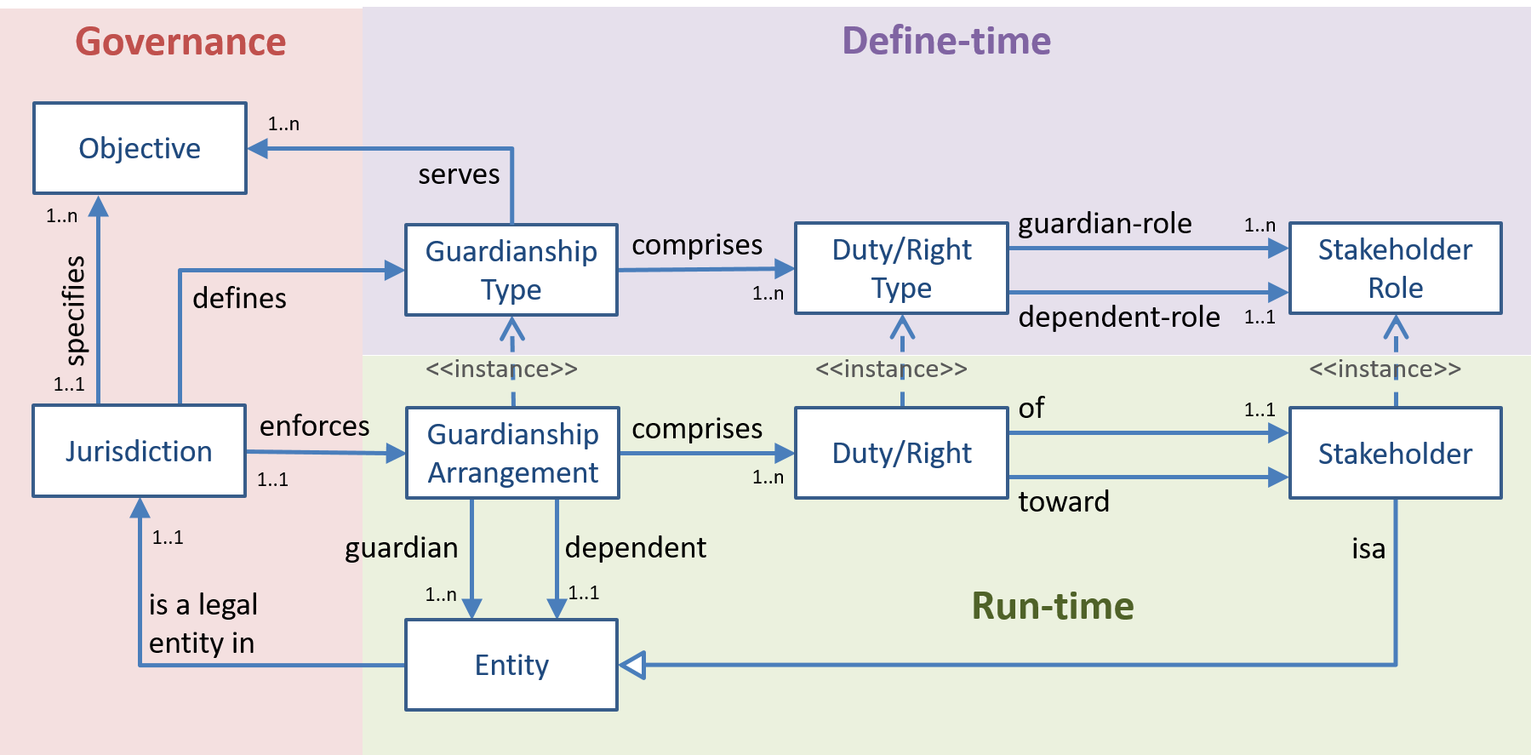
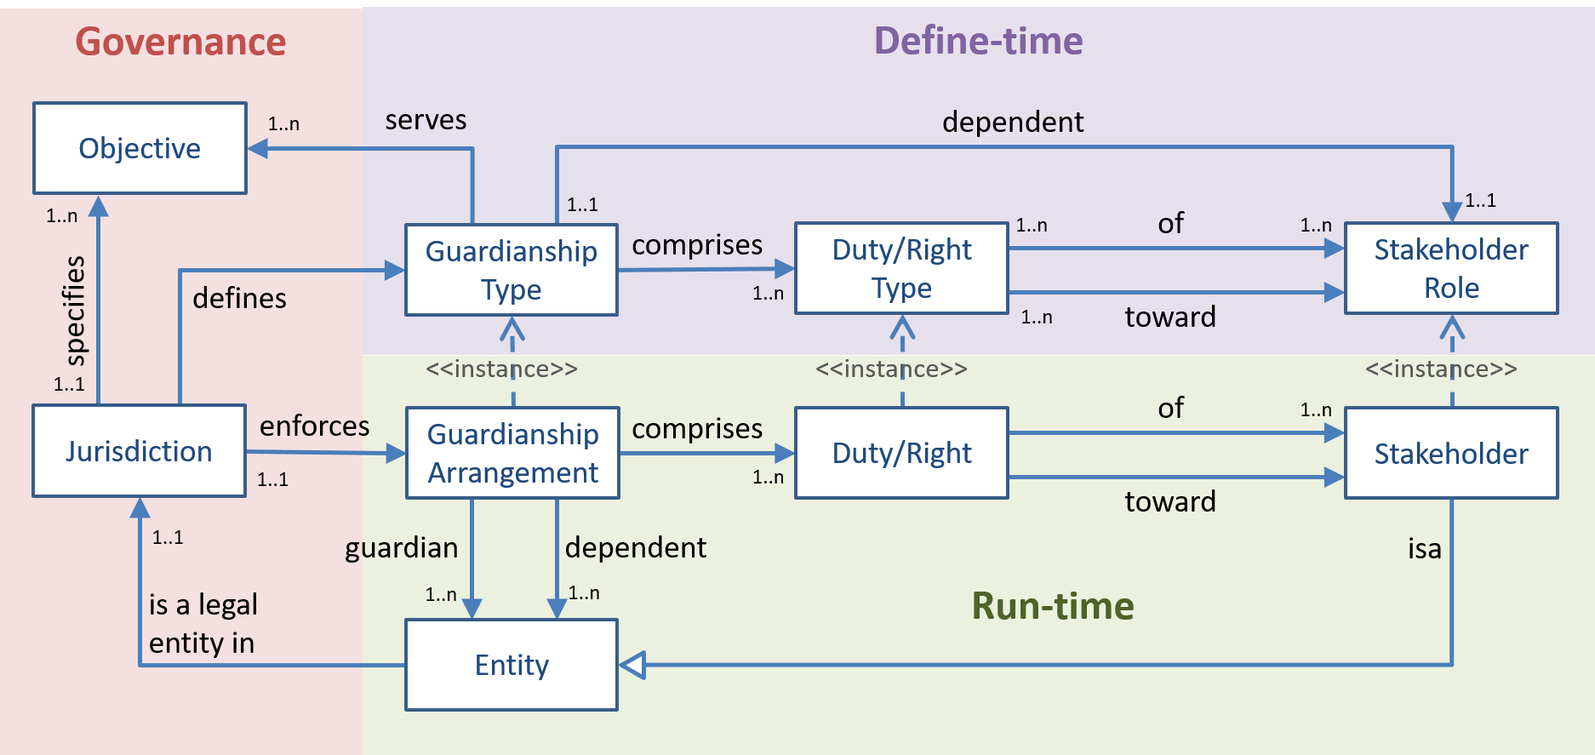
updates

diff --git a/docs/terms/qualified-data.md b/docs/terms/qualified-data.md
@@ -5,21 +5,25 @@ scopeid: essifLab
 type: concept
 typeid: qualified-data
 stage: draft
-hoverText: "Qualified Data: data that comes with assurances, at least regarding its provenance and integrity, and that can be combined electronically in semantically valid ways."
-glossaryText: "%%data^data%% that comes with assurances, at least regarding its provenance and integrity, and that can be combined electronically in semantically valid ways."
+hoverText: "Qualified Data: data that comes with assurances, at least regarding its provenance and integrity (immutability), that make this data valid to be used for specific purposes of individual Parties."
+glossaryText: "%%data^data%% that comes with assurances, at least regarding its provenance and integrity (immutability), that make this data valid to be used for specific purposes of individual %%parties^party%%."
 ---
 
 ### Short Description
-**Qualified data** is %%data|data%% that comes with assurances, at least regarding its provenance and integrity, and that can be combined electronically in semantically valid ways.
+**Qualified data** is %%data|data%% that comes with assurances, at least regarding its provenance and integrity (immutability), that make this data valid to be used for specific purposes of individual %%parties^party%%.
+
+Qualified data has two perspectives:
+1. The usage (or %%validation|validation%%) perspective. Whether or not data qualifies for use depends on the %%party|party%% using it, and also the purpose (context) for which it is used. From this perspective, qualfied data *is* data that if it were validated, would qualify as actually being %%valid|validated-data%%.
+2. The provisioning perspective. Strictly speaking, %%parties|party%% cannot provision qualified data as they have no clue what it takes for that data to be %%valid|validated-data%%. A party that creates qualified data would not not all specific purposes for which the data is actually going to be used.
 
 For verifiers
 
 Qualified data comes in two flavors:
-- as data that satisfies the requirements of the %%party|party%% that will be using it, e.g. for decision making. Since parties are autonomous (self-sovereign), such requirements must be expected to be subjective: every party will have its 
+- as data that satisfies the requirements of the %%party|party%% that will be using it, e.g. for decision making. Since parties are autonomous (self-sovereign), such requirements must be expected to be subjective: every party will have its
 
 ### Purpose
 The ability to distinguish between (non)qualified-datas is relevant in many situations, including:
-- electronic communication: the qualified-data 
+- electronic communication: the qualified-data
 
 ### Criterion
 The **qualified-data** (of an %%actor|actor%%) is the %%party|party%% for whom the actor is an %%agent|agent%%, i.e. on whose behalf the actor is (in the process of) executing some %%action|action%%.
@@ -40,16 +44,16 @@ From the issuer perspective, it isn't all that important what the 'envelope' is 
 In short, as an issuer, a party is interested in creating value from sharing knowledge about other entities. A party's “issuer” governance process is concerned with making (and continually reviewing and updating) decisions about e.g.:
 - the kinds of qualified data it is willing to provide (what they consist of, what characteristics are to be ensured, liability to take, etc.;
 - the kinds of credentials ('envelopes') it is willing to use for providing that data;
-- under which conditions such credentials may be issued (e.g. only to a party that is mentioned in the qualified data); 
+- under which conditions such credentials may be issued (e.g. only to a party that is mentioned in the qualified data);
 - how all this is communicated: published, advertised and marketed (both in machine-readable and human readable form, for different purposes/audiences).
 
 #### Validator perspective
 
-In its role as a %%validator|validator%%, a %%party|party%% is seeking to create value by efficiently obtaining data that is valid for further processing for specific purposes. Such processing includes doing computations with the data, or using it as a value for a variable/placeholder in a rule that needs to be evaluated for the purpose of making some decision. One may think of this as that the party has various 'formulae' that it needs to be processed or evaluated for specific purposes, and doing so requires the 'variables' (fields) of these formulae to be assigned a value. 
+In its role as a %%validator|validator%%, a %%party|party%% is seeking to create value by efficiently obtaining data that is valid for further processing for specific purposes. Such processing includes doing computations with the data, or using it as a value for a variable/placeholder in a rule that needs to be evaluated for the purpose of making some decision. One may think of this as that the party has various 'formulae' that it needs to be processed or evaluated for specific purposes, and doing so requires the 'variables' (fields) of these formulae to be assigned a value.
 
 The validator perspective is about obtaining such data, determining whether or not evaluation of the formula would be valid if the data were assigned to specific variables (%%validation|validation%%), and if so, assign the obtained data to such variables.
 
-Obtaining data through the SSI infrastructure requires that the party first needs to track down which issuers exist and what kinds of credentials they issue, i.e. the kinds of data that they contain, and further characteristics. It is needed to create and maintain a mapping between (fields) from credentials from specific issuers and 'variables' in the formulae that it uses in its business processes. Such a mapping would also include 'validation criteria', i.e. formulae whose variables can be populated by the meta-data of credentials, such the expiration date, and that are used to decide whether or not data from a credential can serve as the value of a variable in the formula. We will refer to such mappings (and their validation criteria) as a 'validation policy'. 
+Obtaining data through the SSI infrastructure requires that the party first needs to track down which issuers exist and what kinds of credentials they issue, i.e. the kinds of data that they contain, and further characteristics. It is needed to create and maintain a mapping between (fields) from credentials from specific issuers and 'variables' in the formulae that it uses in its business processes. Such a mapping would also include 'validation criteria', i.e. formulae whose variables can be populated by the meta-data of credentials, such the expiration date, and that are used to decide whether or not data from a credential can serve as the value of a variable in the formula. We will refer to such mappings (and their validation criteria) as a 'validation policy'.
 
 Machine-readable validation policies enable generic IT to collect data for populating a formula using the SSI infrastructure, with the guarantee that such data is valid for the purpose in which the formula is used. Human-readable validation policies enable the designated employees of the organization to do the same, using other kinds of infrastructure (e.g. Internet, phone, mail, …).
 

diff --git a/docs/terms/pattern-guardianship.md b/docs/terms/pattern-guardianship.md
@@ -77,7 +77,9 @@ The define-time aspect of guardianships is all about about the design of %%guard
 
 A guardianship type basically defines a set of duties and rights and a set of stakeholder roles that allow these duties and rights to be assigned to, or directed at. Note that one part of such rights and duties pertain to the realization of the objective(s) that the guardianship type was created for, while another part pertains to the management- and governance processes.
 
-In our example of a 'Financial Guardianship', we could have stakeholder roles such as "Financial Administrator", "Judge" and "Party placed under administration", and associate rights and duties e.g. as follows:
+Every guardianship type has one stakeholder role that is (also) referred to as its dependent (role). The other roles may be referred to as guardian roles. Different guardianship types may use different role(name)s to refer to their respective dependent roles.
+
+In our example of a 'Financial Guardianship', we could have stakeholder roles such as "Financial Administrator", "Judge" and "Party placed under administration" (which is the dependent role), and associate rights and duties e.g. as follows:
 1. "[Financial Administrator] must ensure that [Party placed under administration] has sufficient funds to pay for housing and food";
 2. "[Party placed under administration] may not enter into financial obligations";
 3. "[Financial Administrator] has a right to look into, and transfer money out of any bank account of [Party placed under administration]";
@@ -86,6 +88,7 @@ In our example of a 'Financial Guardianship', we could have stakeholder roles su
 6. "[Judge] must review the rights and duties of an arrangement each year and update them if such is needed to better realize the objectives for which the arrangement exists".
 
 The example shows that
+- there is no such thing as 'the dependent (role)'; in the define-time context, the phrase 'dependent' is specific for a guardianship type, and only serves as a placeholder for one of its stakeholder roles.
 - names of stakeholder roles only serve as placeholders, that will be assigned %%parties|party%% when the guardianship type is instantiated;
 - the various roles are implicitly defined by the rights and duties that have been assigned to them - there is no real need to explicitly describe them;
 - multiple parties may be caring for a dependent in their own specific way (in the example, the Judge cares by ensuring that the Financial Administrator does not prey on the party that is placed under administration);
@@ -96,7 +99,7 @@ The example shows that
 
 The run-time aspect of guardianships is all about about the establishing, using and management of actual %%guardianships arrangements|guardianship-arrangement%%. This includes the assignment of %%legal entities|legal-entity%% to the various stakeholder roles, and the management of such assignments. It also includes the management of the actual rights and duties or such legal entities.
 
-Typically, the %%jurisdiction|jurisdiction%% that enforces (and governs) a %%guardianship type|guardianship-type%% has rules that specify the conditions that allow a guardianship arrangement of that type to be created, including the %%parties|party%% that must do this. When a guardianship arrangement is established, it starts as a copy of the guardianship type that it instantiates. Then, the dependent-role is assigned to the legal entity that will be fulfilling that role, and so are most, if not all guardianship-roles. Note that the the rules that govern the guardianship arrangements may specify that a specific guardian-role is reserved for the party that manages the guardianship arrangement itself.
+Typically, the %%jurisdiction|jurisdiction%% that enforces (and governs) a %%guardianship type|guardianship-type%% has rules that specify the conditions that allow a guardianship arrangement of that type to be created, including the %%parties|party%% that must do this. When a guardianship arrangement is established, it starts as a copy of the guardianship type that it instantiates. Then, the dependent-role is assigned to the legal entity that will be fulfilling that role (or more legal entities if that is appropriate). Similarly, most, if not all guardianship-roles are assigned to a legal entity. Note that the the rules that govern the guardianship arrangements may specify that a specific guardian-role is reserved for the party that manages the guardianship arrangement itself.
 
 Next, every duty/right type can now be converted into a duty/right instance, by replacing the role names by the names of the legal entities that fulfill the role. For example, assume that a guardianship arrangement is established in which Dick is assigned the role of 'person placed under administration', Alice the 'financial administrator' and Joe is the 'judge', whose role is to manage and supervise the guardianship arrangement. Then, the rights and duties would become:
 1. "Alice must ensure that Dick has sufficient funds to pay for housing and food";

diff --git a/docs/terms/policy.md b/docs/terms/policy.md
@@ -14,23 +14,23 @@ A **policy** is a (set of) rules, working instructions and/or other guidance for
 
 An %%agent|agent%% must have access to the policy that its %%principal|principal%% has established for the kind of action(s) that the agent is executing for its principal. This requires that the policy be readable by the agent, and that the agent is capable of interpreting it as intended by its principal.
 
-It should be part of the %%principal's|principal%% governance processes 
+It should be part of the %%principal's|principal%% governance processes
 
-- to establish, maintain and evaluate policies for every kind of action that its agents may execute, 
-- to derive artifacts from such policies that are useable by the various %%agents|agent%% (digital, human, or otherwise) that have a right or duty to execute actions for the %%principal|principal%% to which such policies apply. So, machine-readable policies should be derived for %%digital agents|digital-agent%%, and human-readable policies (in different languages if that is appropriate) for non-digital agents. 
+- to establish, maintain and evaluate policies for every kind of action that its agents may execute,
+- to derive artifacts from such policies that are useable by the various %%agents|agent%% (digital, human, or otherwise) that have a right or duty to execute actions for the %%principal|principal%% to which such policies apply. So, machine-readable policies should be derived for %%digital agents|digital-agent%%, and human-readable policies (in different languages if that is appropriate) for non-digital agents.
 - to publish such artifacts such that at least every of its %%agents|agent%% that may need to access them, can find and access them as needed.
 - to inform its %%agents|agent%% whenever updates have been made that they need to be aware of (specifically if agents are allowed to keep local copies of such artifacts).
 
 The %%Parties, Actors and Actions pattern|pattern-party-actor-action%% provides an overview of how this concept fits in with related concepts.
 
 ### Purpose
-The purpose of **policies** is to enable %%parties|party%% to provide its %%agents|agent%% with the rules and other guidance that they need to execute %%actions|action%% that comply with such rules. 
+The purpose of **policies** is to enable %%parties|party%% to provide its %%agents|agent%% with the rules and other guidance that they need to execute %%actions|action%% that comply with such rules.
 
 ### Criterion
-A **policy** is 
+A **policy** is
 - a (set of) rules, working-instructions, preferences and other guidance for the execution of one or more kinds of %%actions|action%%;
 - governed by a single %%party|party%% (the %%Governor|policy-governor%% of the policy) that decides what goes in the policy and what does not;
-- may have multiple representations of the rules, working-instructions, preferences and other guidance, which are derived from the policy itself, in such a way that that any %%actor|actor%% that has a right or duty to execute an %%action|action%% on behalf of the  %%policy's governor|policy-governor%% can do so according to its intentions; 
+- may have multiple representations of the rules, working-instructions, preferences and other guidance, which are derived from the policy itself, in such a way that that any %%actor|actor%% that has a right or duty to execute an %%action|action%% on behalf of the  %%policy's governor|policy-governor%% can do so according to its intentions;
 - is accessable to, and must be complied with by an %%agent|agent%% of that %%policy's governor|policy-governor%% when it executes an action of the kind to which the policy applies.
 
 ### Related Concepts

diff --git a/docs/business-architecture.md b/docs/business-architecture.md
@@ -22,7 +22,7 @@ The essif-Lab Business Architecture aims to establish a %%terminology|terminolog
 - discussing and resolving issues related to the design and specifications of interfaces, protocols and policies, not only at the technological level, but also at the business process and compliance/policy levels;
 - designing and developing technical applications or platforms that support the management of such design and specification processes, both for individual parties as for business ecosystems.
 
-To this end, this document provides an overview of 
+To this end, this document provides an overview of
 - the world model that is being used to think/reason about the purposes of eSSIF-Lab, how to realize them, and how to communicate about all that;
 - the functions (capabilities) that individual %%parties|party%% need in order to electronically support %%business transactions|transaction%%;
 - the interactions between these functions that make such %%business transactions|transaction%% happen;
@@ -32,7 +32,7 @@ To this end, this document provides an overview of
 
 Like everyone else, eSSIF-Lab too has its own way of thinking and reasoning about the world. In this chapter, we highlight the most important concepts that you as a reader need to be aware of in order to understand what this business architecture is about, and what it allows you to do with it. Terms of which the meaning is particularly imporant to our world view are highlighted, and hovering over them shows you the definition that we use. If you want to dive deeper into their meanings, just click them.
 
-eSSIF-Lab sees the world (universe) as being filled with %%entities|entity%%, i.e. things (people and animals included) that exist. Our world view is shaped by the distinctions that eSSIF-Lab makes as it classifies such entities into well-defined categories, each of which having specific characteristics. 
+eSSIF-Lab sees the world (universe) as being filled with %%entities|entity%%, i.e. things (people and animals included) that exist. Our world view is shaped by the distinctions that eSSIF-Lab makes as it classifies such entities into well-defined categories, each of which having specific characteristics.
 
 One such category are %%parties|party%%, i.e. %%entities|entity%% that have and maintain a sovereign/autonomous %%knowledge|knowledge%%, and use this to pursue their %%objectives|objective%%. Human beings or %%organizations|organization%% do this, and hence are parties. Another such category are %%actors|actor%%, i.e. %%entities|entity%% that are capable of acting, i.e. doing something. Think of human beings, or machines (including computers). Note that not all %%parties|party%% are %%actors|actor%% (e.g. %%organizations|organization%%), and not all %%actors|actor%% are %%parties|party%% (e.g. robots). Please read more about %%Parties, Actors and Actions|pattern-party-actor-action%% so that you really understand the distinctions and similarties between these terms, and how they relate to one another, because this is an important foundation of our architecture.
 
@@ -58,8 +58,8 @@ The [*DEMO*](https://en.wikipedia.org/wiki/Design_%26_Engineering_Methodology_fo
 ### 2.4 Issuers, Verifiers, Validators and Holders
 
 In the various phases of a %%transaction|transaction%%, each of its %%participants|participant%% may need (one or more of its agents) to do the following:
-- request the data that it needs for making the commitment or acceptance decision 
-- 
+- request the data that it needs for making the commitment or acceptance decision
+-
 
 
 

diff --git a/docs/essifLab-pattern-list.md b/docs/essifLab-pattern-list.md
@@ -27,10 +27,10 @@ These are models that are either not very mature, or placeholders for models tha
 The envisaged [eSSIF-Lab Terminology Pattern](./terms/pattern-terminology) will describe the relations between %%terminology|terminology%% artifacts such as '%%concept|concept%%', '%%term|term%%', '%%pattern|pattern%%', '%%mental model|mental-model%%', '%%glossary|glossary%%' etc.
 
 ### [Mandates, Delegation and Hiring](./terms/pattern-mandates-delegation-hiring)
-The envisaged [Mandates, Delegation and Hiring pattern](./terms/pattern-mandates-delegation-hiring) will capture the ideas behind Mandating, Delegating, Hiring and their relations. It will extend the [Parties, Actors and Actions pattern](./terms/pattern-party-actor-action) with concepts that describe how the %ownership% and `works for` relations between %parties% and %actors% are to be (de)populated, and how to determine for %party% the %actor% is working as it executes an %action%.
+The envisaged [Mandates, Delegation and Hiring pattern](./terms/pattern-mandates-delegation-hiring) will capture the ideas behind Mandating, Delegating, Hiring and their relations. It will extend the [Parties, Actors and Actions pattern](./terms/pattern-party-actor-action) with concepts that describe how the %%ownership|ownership%% and `works for` relations between %%parties|party%% and %%actors|actor%% are to be (de)populated, and how to determine for %%party|party%% the %%actor|actor%% is working as it executes an %%action|action%%.
 
 ### [Duties and Rights](./terms/pattern-duties-and-rights)
 The envisaged [Duties and Rights pattern](./terms/pattern-duties-and-rights) will describe the relations between %%jurisdictions|jurisdiction%%, %%legal entities|legal-entity%% and the duties and rights they have within them. This pattern will be based on the [theory of Hohfeld](https://plato.stanford.edu/entries/rights/#FormRighHohfAnalSyst).
 
 ### [Decentralized Governance, Risk Management and Compliance (GRC)](./terms/pattern-decentralized-GRC)
-The envisaged Decentralized GRC pattern](./terms/pattern-decentralized-GRC) will describe how %parties% can set objectives, and pursue them to be succesful. The latter means that the party must be capable of assessing and managing the risks associated with not realizing them. In a decentralized world, this means that it needs to depend on other parties, that may or may not be too reliable. Also, it means that the party must be able to set and realize objectives to satisfy requirements of other parties (compliance).
+The envisaged Decentralized GRC pattern](./terms/pattern-decentralized-GRC) will describe how %%parties|party%% can set objectives, and pursue them to be succesful. The latter means that the party must be capable of assessing and managing the risks associated with not realizing them. In a decentralized world, this means that it needs to depend on other parties, that may or may not be too reliable. Also, it means that the party must be able to set and realize objectives to satisfy requirements of other parties (compliance).

diff --git a/docs/terms/governance.md b/docs/terms/governance.md
@@ -19,7 +19,7 @@ Within eSSIF-Lab, governance is pretty much limited to the governance of various
 The %%Parties, Actors and Actions pattern|pattern-party-actor-action%% provides an overview of how this concept fits in with related concepts.
 
 ### Purpose
-The purpose for a %%party|party%% of having a **governance** process is that it enables him to reflect on the ways that it makes decisions. A typical topic for governance is the maintenance of the set of rules, working-instructions, preferences and other guidance that %%actors|actor%% are supposed, or required to use when executing specific %%actions|action%% on behalf of that %%party|party%%. 
+The purpose for a %%party|party%% of having a **governance** process is that it enables him to reflect on the ways that it makes decisions. A typical topic for governance is the maintenance of the set of rules, working-instructions, preferences and other guidance that %%actors|actor%% are supposed, or required to use when executing specific %%actions|action%% on behalf of that %%party|party%%.
 
 For %%digital-actors|digital-actor%% such guidance consists of %%digital policies|digital-policy%%. A %%party|party%% whose governance process maintains a %%policy|policy%% will be called the %%governor|policy-governor%% of that policy.
 

diff --git a/docs/governance.md b/docs/governance.md
@@ -6,7 +6,7 @@ scopeid: essifLab
 ---
 
 ## Purpose
-The [eSSIF-Lab functional architecture](functional-architecture) identifies and describes a variety of generic SSI functions (capabilities), such as %%holder|holder%%, %%verifier|verifier%%, %%issuer|issuer%%, %%wallet|wallet%%, and more. An %%actor|actor%% that can provide such (generic) capabilities can only _actually_ provide them for a %%party|party%% if it knows how to to comply with the %%rules, working-instructions, preferences and other guidance|policy%% of that %%party|party%%. 
+The [eSSIF-Lab functional architecture](functional-architecture) identifies and describes a variety of generic SSI functions (capabilities), such as %%holder|holder%%, %%verifier|verifier%%, %%issuer|issuer%%, %%wallet|wallet%%, and more. An %%actor|actor%% that can provide such (generic) capabilities can only _actually_ provide them for a %%party|party%% if it knows how to to comply with the %%rules, working-instructions, preferences and other guidance|policy%% of that %%party|party%%.
 
 **Governance** is the process by which %%parties|party%% decide how to make decisions, how %%actors|actor%% that work on their behalf are to behave and operate, and ensure this guidance ends up in some document which we will call a %%policy|policy%%.
 

diff --git a/docs/functional-architecture.md b/docs/functional-architecture.md
@@ -21,7 +21,7 @@ The essif-Lab Functional Architecture aims to establish a %%terminology|terminol
 - discussing and resolving issues related to interfaces and protocols for tech components that provide such functionalities;
 - designing and developing technical applications that support individual businesses or business ecosystems, not only as they conduct %%business transactions|transaction%%, but also in order to govern the %%policies|policy%% they need to make the technology work as they intend.
 
-To this end, this document provides an overview of 
+To this end, this document provides an overview of
 - the functions (capabilities) that individual %%parties|party%% need in order to electronically support %%business transactions|transaction%%;
 - the interactions between these functions that make such %%business transactions|transaction%% happen;
 - the various %%policies|policy%% that %%parties|party%% have to govern, and put in place in order for the technical components that provide these capabilities to function in accordance with their (subjective) rules, working-instructions and other guidance.
